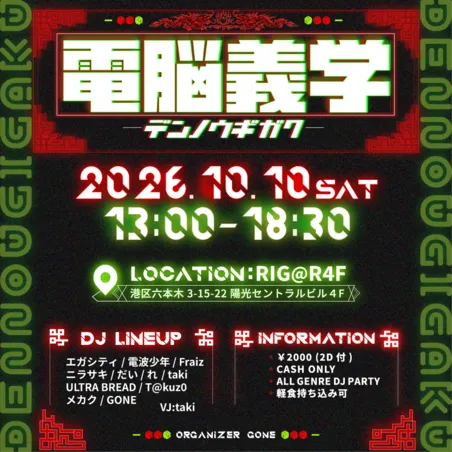
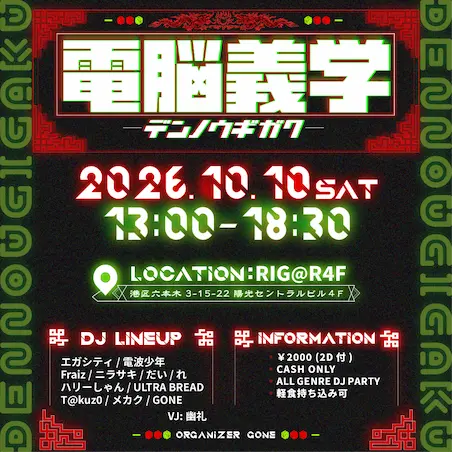
10/10のラインナップ変更

diff --git a/index.html b/index.html
@@ -81,7 +81,7 @@
               <dt>ADDRESS</dt>
               <dd>東京都港区六本木3-15-22 陽光セントラルビル 4F</dd>
               <dt>LINEUP</dt>
-              <dd>エガシティ / 電波少年 / Fraiz / ニラサキ / だい / れ / taki / ULTRA BREAD / T@kuz0 / メカク / GONE</dd>
+              <dd>エガシティ / 電波少年 / Fraiz / ニラサキ / だい / れ / ハリーしゃん / ULTRA BREAD / T@kuz0 / メカク / GONE / VJ:幽礼 </dd>
             </dl>
           </div>
         </article>
@@ -148,8 +148,7 @@
               <div class="lineup-block">
                 <div class="lineup-title">LINEUP</div>
                 <p class="lineup">
-                  Fraiz / taki / だい / れ / ULTRA BREAD / エガシティ / ニラサキ / T@kuz0 / メカク
-                  / 電波少年 / GONE
+                  エガシティ / 電波少年 / Fraiz / ニラサキ / だい / れ / ハリーしゃん / ULTRA BREAD / T@kuz0 / メカク / GONE / VJ:幽礼
                 </p>
               </div>
             </div>
